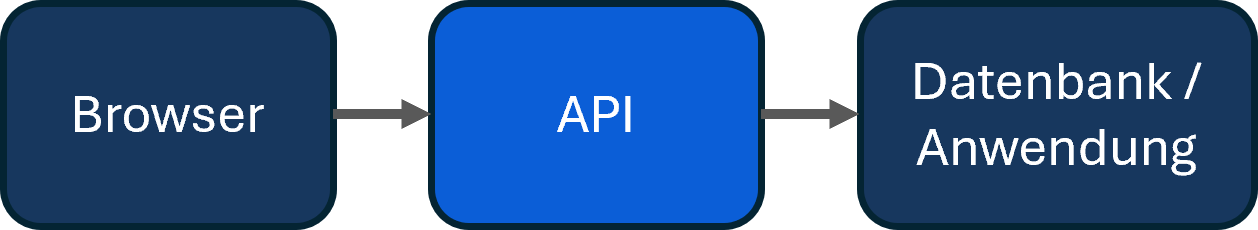
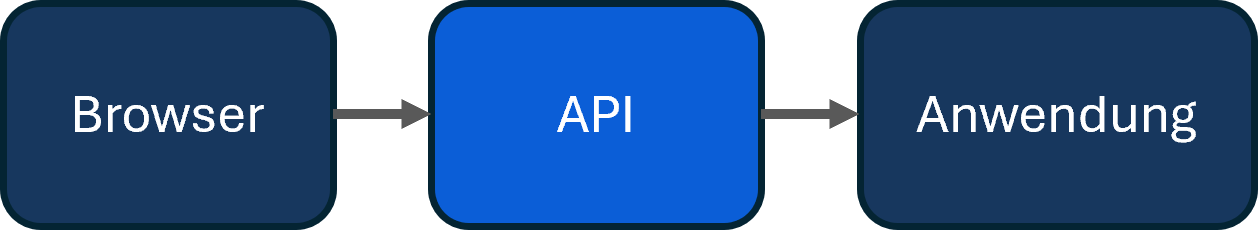
Nochmal die Eigenen Darstellungen  aktualisiert und an Größe angepasst. Willkommens-Text besser geschrieben

Changed region(s): [[0.713, 0.2739, 0.961, 0.7609]]

diff --git a/index.html b/index.html
@@ -31,8 +31,9 @@
     <main class="container">
     <section class="hero">
         <h2>Willkommen im IT-Glossar</h2>
-        <p>Dieses Glossar wurde als Prototyp für die Log7-Consult GmbH entwickelt. Es erläutert wichtige Begriffe aus der Webentwicklung
-            und zeigt Zusammenhänge zwischen HTML, CSS, JavaScript, APIs und REST.
+        <p>Dieses Glossar erläutert zentralae Begriffe aus der Webentwicklung und unterstützt Mitarbeitende dabei, 
+            Fachbegriffe einheitlich zu verstehen. Über die Navigation oder die Suchfunktion können
+            die einzelnen Begriffe schnell aufgerufen werden.
         </p>
     </section>
 

diff --git a/rest.html b/rest.html
@@ -32,10 +32,10 @@
 
         <article class="content">
         <figure>
-            <img src="images\REST.png" alt="REST-Logo" class="topic-image">
+            <img src="images\REST.png" alt="REST-Logo" class="topic-image rest-image">
 
             <figcaption>
-                Abbildung 5: REST-Darstellung. Vereinfachte Kommunikation über eine REST-Schnittstelle.
+                Abbildung 5: Vereinfachte Kommunikation über eine REST-Schnittstelle.
                 Quelle: Eigene Darstellung.
             </figcaption>
         </figure>

diff --git a/api.html b/api.html
@@ -32,10 +32,10 @@
 
     <article class="content">
         <figure>
-            <img src="images\API.png" alt="API-Logo" class="topic-image">
+            <img src="images\API.png" alt="API-Logo" class="topic-image api-image">
 
             <figcaption>
-                Abbildung 4: API-Darstellung. Schematische Darstellung einer API.
+                Abbildung 4: Schematische Darstellung einer API.
                 Quelle: Eigene Darstellung.
             </figcaption>
         </figure>

diff --git a/html.html b/html.html
@@ -110,7 +110,9 @@
     </main>
 
     <footer>
-        <p>© Log7-Consult GmbH 2026  |  <a href="impressum.html">Impressum</a></p>
+        <p>© Log7-Consult GmbH 2026  |  
+            Prototyp für Fallstudie
+        </p>
         <p id="lastModified"></p>
     </footer>
 

diff --git a/style.css b/style.css
@@ -268,6 +268,14 @@ tr:nth-child(even){
     color: #0b5ed7;
 }
 
+.api-image, .rest-image{
+    max-width: 700px;
+    width: 80%;
+    height: auto;
+    display: block;
+    margin: 0 auto 10px auto;
+}
+
 footer{
     background-color: #17375e;
     color: white;
